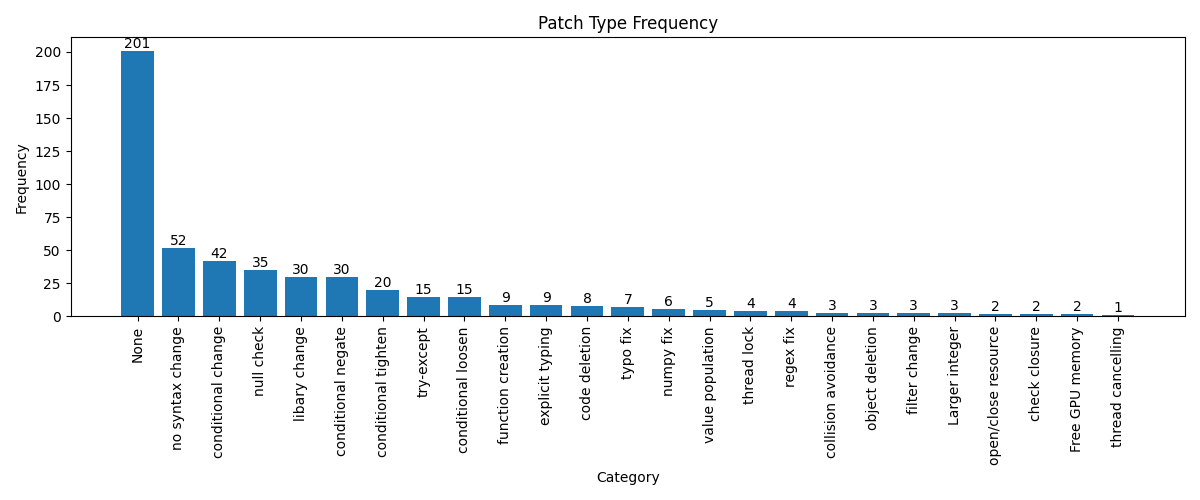
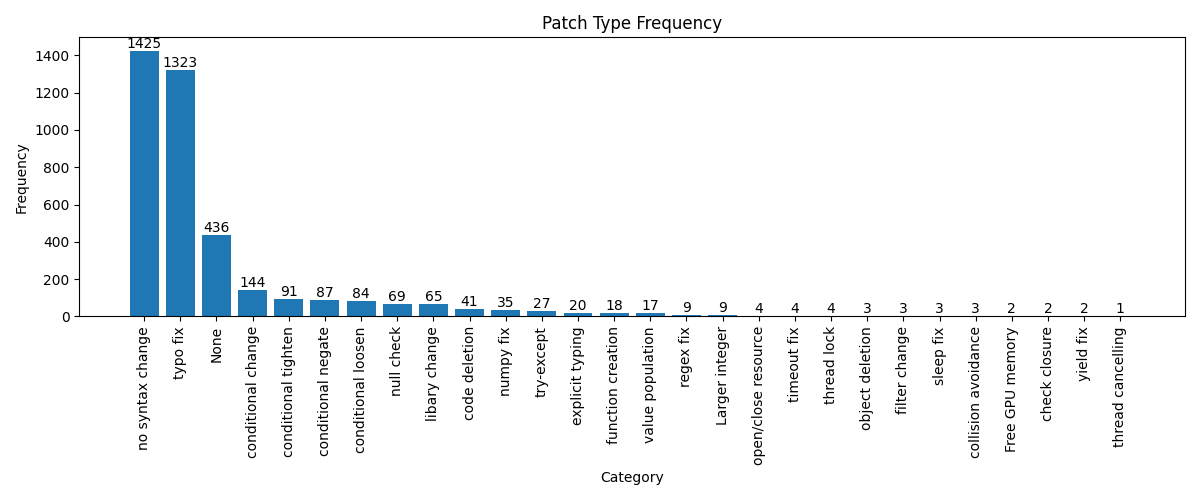
added new bug type

diff --git a/src/main.py b/src/main.py
@@ -90,7 +90,8 @@ def categorized_bug_4():
                   'null pointer exceptions': [' null ', "null-pointer", "null pointer", "nullpointer" 'seg', ' npe'], 
                   'overflows': [' overflow '],
                   'race conditions': [' race ', 'mutex '," deadlock "], 
-                  'memory leaks': ['memory leak', 'memory-leak']
+                  'memory leaks': ['memory leak', 'memory-leak'],
+                  'logical errors': [' edge case ', ' unexpected ',' typo ',' logic ',' if statement']
                   }
 
     categorized_messages = {key: [] for key in categories.keys()}
@@ -150,10 +151,6 @@ def helper_boolean(token_changes: list[str], commit_msg: str):
         os.exit(1)
     adds = token_changes['added_tokens']
     dels = token_changes['deleted_tokens']
-
-    ## if typo in commit msg
-    if "typo" in commit_msg.lower():
-        return "typo fix"
 
     ## boolean change
     if diffs.get("true",0) > 0 and diffs.get("false",0) > 0:
@@ -266,6 +263,10 @@ def helper_boolean(token_changes: list[str], commit_msg: str):
     ## if the change was made but was not registered by the parser
     if len(diffs) == 0:
         return "no syntax change"
+
+    ## if typo in commit msg
+    if "typo" in commit_msg.lower():
+        return "typo fix"
 
     return None
 
